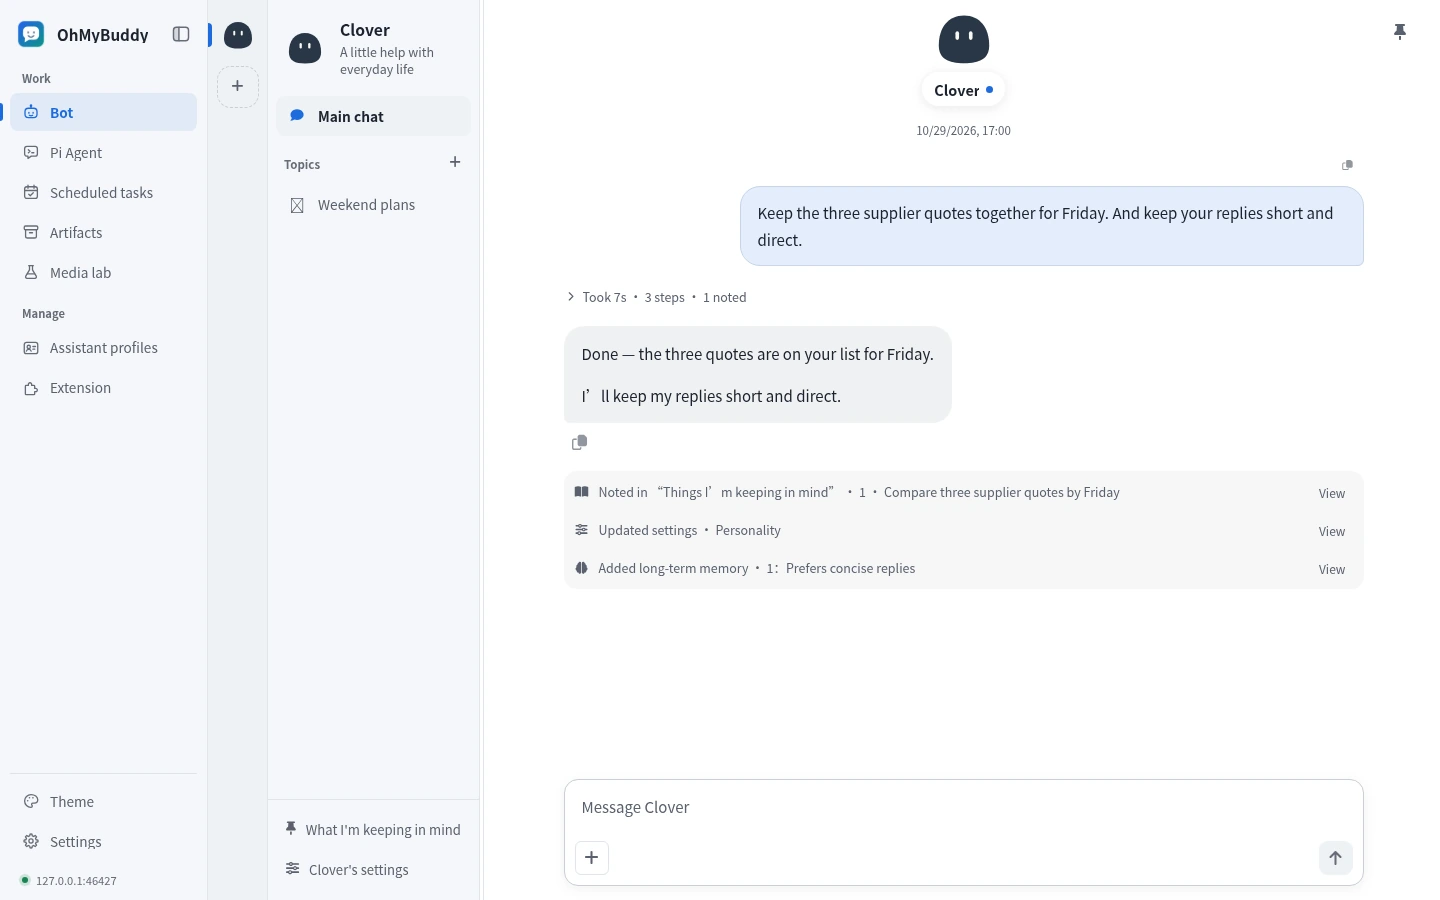
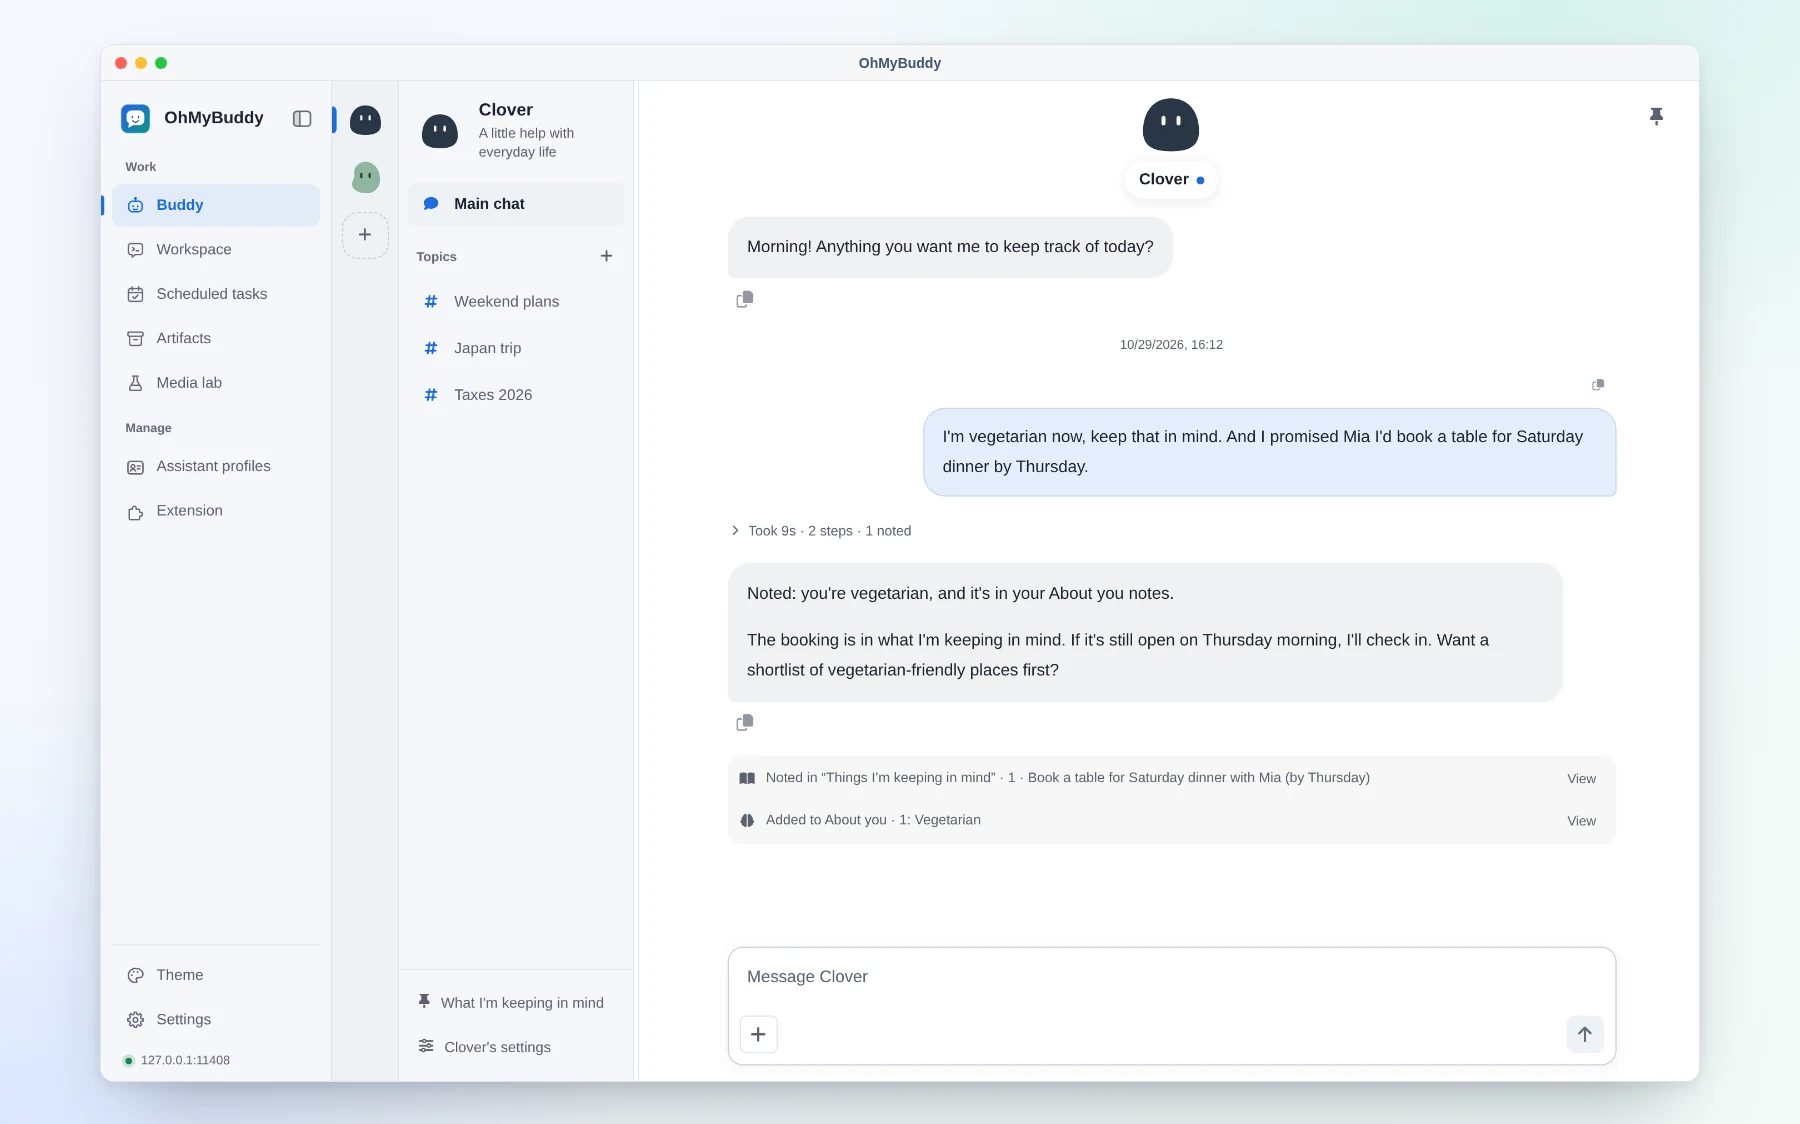
docs(readme): recapture Buddy desktop and phone views; fix English receipt colon
- New synthetic hero and phone shots show the Buddy / Workspace names, Latin fonts and
  memory receipts; drop the unreferenced bot-*.png copies.
- English Buddy receipts join count and preview with ': ' instead of a full-width colon.

diff --git a/public/pi-bot-turns.js b/public/pi-bot-turns.js
@@ -49,7 +49,7 @@
                     const labels = { user: { added: '新增关于你', updated: '更新了关于你', removed: '删掉了关于你' }, memory: { added: '新增长期记忆', updated: '更新了长期记忆', removed: '删掉了长期记忆' },
                         skill: { added: '新增技能', updated: '更新技能', removed: '删掉技能' }, settings: { added: '改了设置', updated: '改了设置', removed: '改了设置' } };
                     const detail = change.area === 'settings' ? fields(names) : change.area === 'skill' ? names.join(t('、')) :
-                        [Number.isSafeInteger(change.count) && change.count > 0 ? t('{0} 条', change.count) : '', preview].filter(Boolean).join('：');
+                        [Number.isSafeInteger(change.count) && change.count > 0 ? t('{0} 条', change.count) : '', preview].filter(Boolean).join(t('：'));
                     changes.push({ area: change.area, text: [t(labels[change.area][change.action]), detail].filter(Boolean).join(' · ') });
                 }
                 if (!changes.length) return null;

diff --git a/public/pi-i18n-catalog.js b/public/pi-i18n-catalog.js
@@ -11019,7 +11019,8 @@
     rows.push(
         ["伙伴", "Buddy"],
         ["工作台", "Workspace"],
-        ["OhMyBuddy 自带的 Agent 工作台，由 Pi Coding Agent 驱动", "OhMyBuddy's agent workspace, powered by the Pi coding agent"]
+        ["OhMyBuddy 自带的 Agent 工作台，由 Pi Coding Agent 驱动", "OhMyBuddy's agent workspace, powered by the Pi coding agent"],
+        ["：", ": "]
     );
     globalThis.PiI18nCatalog = Object.freeze(rows.map(row => Object.freeze(row)));
 })();

diff --git a/README.md b/README.md
@@ -19,7 +19,7 @@ Bring your own models: Claude, GPT, Gemini, DeepSeek, Qwen, Kimi and more. Your 
 
 [Download](https://github.com/YogurtJ/OhMyBuddy/releases/latest) · [Install](docs/en/INSTALL.md) · [User guide](docs/en/USER_GUIDE.md) · [Changelog](CHANGELOG.md) · [Report an issue](https://github.com/YogurtJ/OhMyBuddy/issues/new/choose) · [Discussions](https://github.com/YogurtJ/OhMyBuddy/discussions)
 
-<img src="https://raw.githubusercontent.com/YogurtJ/OhMyBuddy/main/docs/assets/readme/hero-en.webp" alt="OhMyBuddy, a self-hosted AI assistant, on the desktop: a Buddy conversation with a folded process summary and memory receipts" width="100%">
+<img src="https://raw.githubusercontent.com/YogurtJ/OhMyBuddy/main/docs/assets/readme/hero-en.webp" alt="OhMyBuddy, a self-hosted AI assistant, on the desktop: a Buddy remembers that you are vegetarian and a dinner booking you promised, with receipts for About you and Things I’m keeping in mind" width="100%">
 
 </div>
 
@@ -120,7 +120,7 @@ It has two sides that share the same runtime, models and tools:
 
 ### Everyday use
 
-<p align="center"><img src="https://raw.githubusercontent.com/YogurtJ/OhMyBuddy/main/docs/assets/readme/mobile-en.webp" alt="OhMyBuddy on a phone: a Buddy conversation with a process summary and memory receipts" width="280"></p>
+<p align="center"><img src="https://raw.githubusercontent.com/YogurtJ/OhMyBuddy/main/docs/assets/readme/mobile-en.webp" alt="OhMyBuddy on a phone: the same Buddy conversation with memory receipts and Buddy / Workspace navigation" width="280"></p>
 
 - Layouts adapt to desktop, tablet and phone screens, and OhMyBuddy can be installed to your home screen.
 - In-page notifications and sounds are available, with optional Web Push for background alerts.

diff --git a/CHANGELOG.md b/CHANGELOG.md
@@ -8,6 +8,7 @@
 - 导航中的 Bot 显示为“伙伴”（Buddy），Pi Agent 显示为“工作台”（Workspace）；原先指整个实例的“工作台”文案改为 OhMyBuddy。接口路径、数据目录和微信 `/bot` 保持不变，微信新增 `/伙伴`、`/buddy` 别名。
 - 公开仓库改为 `YogurtJ/OhMyBuddy`。更新检查只跟随同源 GitHub API 跳转，以后仓库再改名也能继续检查；1.10.x 及更早版本的更新检查不跟随跳转，需手动升级一次。
 - 修复 Linux 上英文界面的引号和撇号被中文字体按全角绘制（如 “I’ ll”）：字体栈先使用常见拉丁字体，再回退到中文字体。
+- 修复英文界面的伙伴记忆回执在条数和内容之间显示中文冒号（如 “1： Vegetarian”）。
 
 [1.11.0 版本说明](docs/releases/1.11.0.md)。以下为已实现的版本内容；三平台执行与证据复用见[平台验证范围](docs/RELEASE_INSTALL_VALIDATION.md)，准确包哈希、实例部署和公开发布状态分别记录。
 
